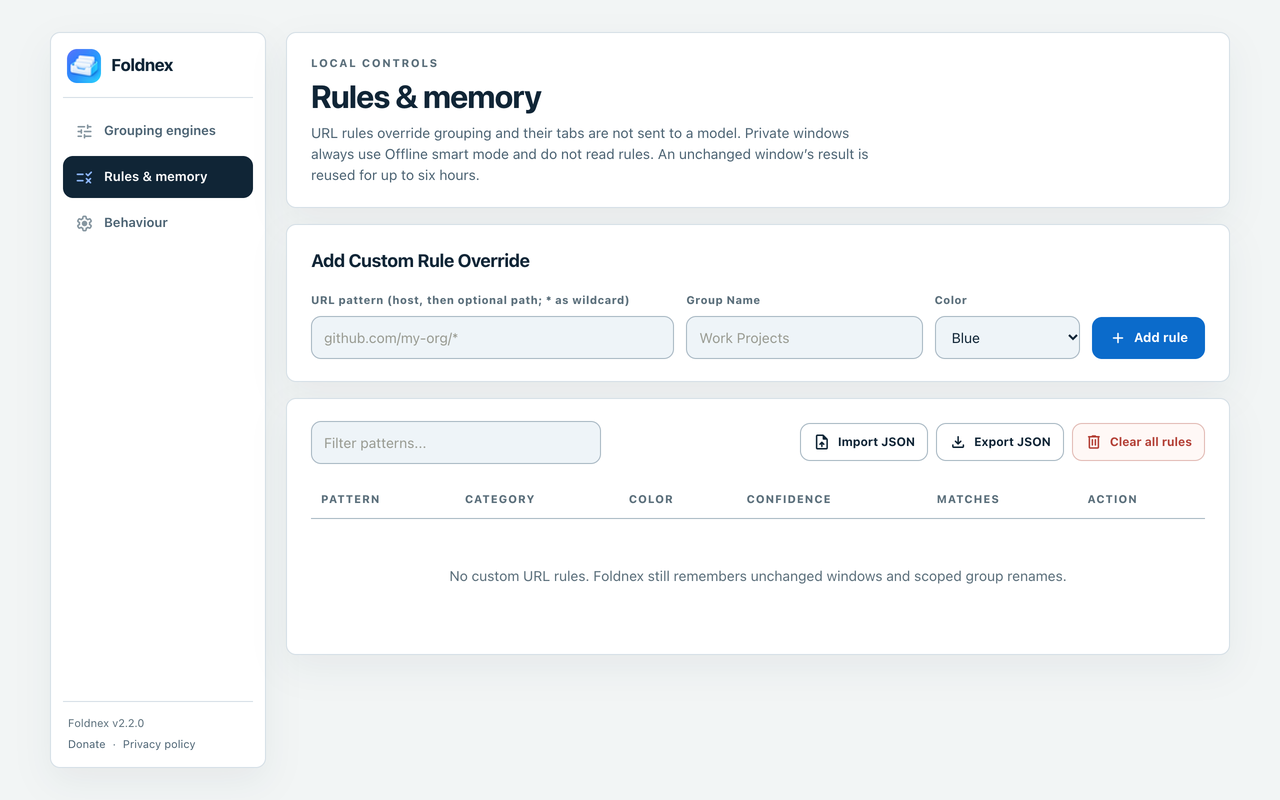
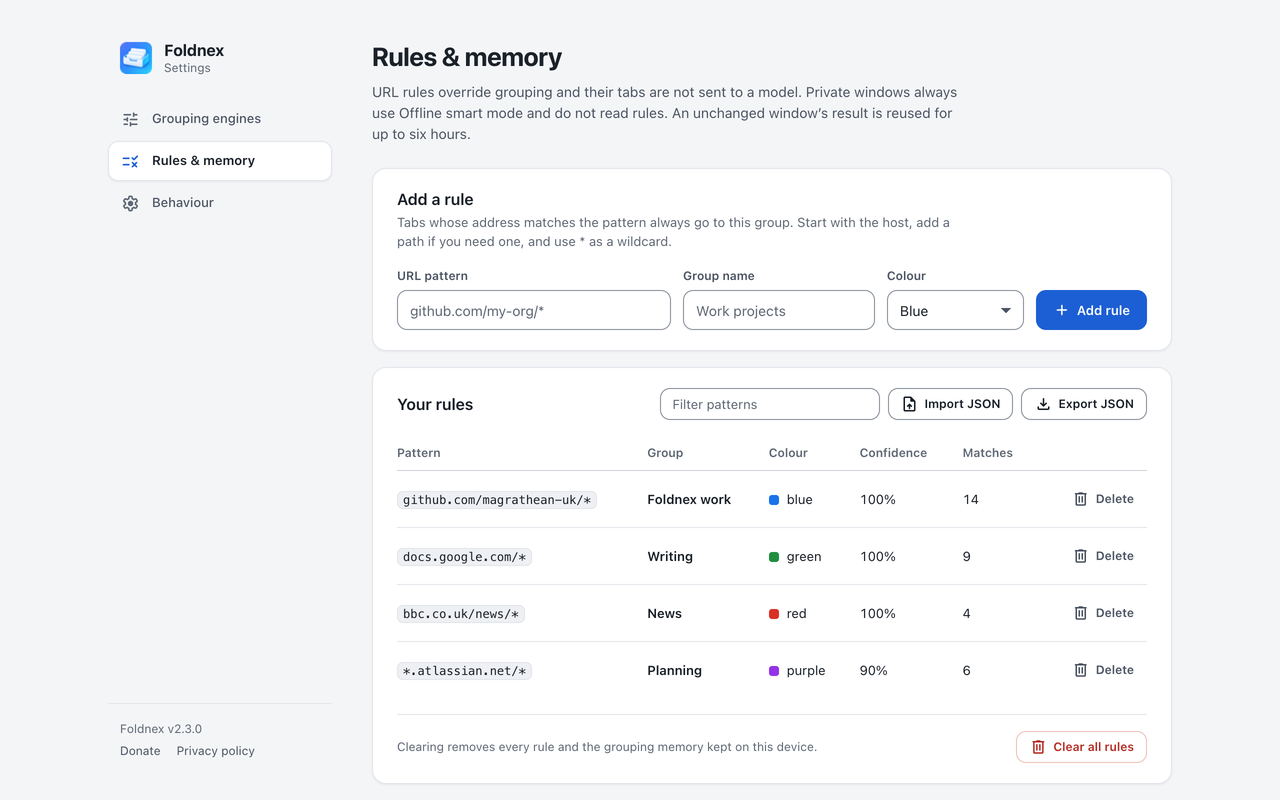
Recapture the five store screenshots from the 2.3.0 design
The set now leads with the popup (two real captures, ready and after a
cleanup, placed side by side by scripts/compose-popup-screenshot.py),
then the engine chooser, Ollama configuration, Rules & memory and
Behaviour. All are headless light-theme captures at 1280x800, device
scale 2, en-GB locale. prepare-store-screenshots.py takes the new names;
the asset manifest, store guide and user guide follow.

diff --git a/scripts/compose-popup-screenshot.py b/scripts/compose-popup-screenshot.py
@@ -1,0 +1,61 @@
+#!/usr/bin/env python3
+"""Place two popup captures side by side on a 2560x1600 store canvas.
+
+Requires Pillow in the caller's Python environment. Artwork helper only: the
+captures are pasted unscaled at their device-scale-2 size inside a plain frame,
+with no edits to their content.
+"""
+
+import argparse
+from pathlib import Path
+
+from PIL import Image, ImageDraw, ImageFilter
+
+SIZE = (2560, 1600)
+CANVAS = (230, 233, 238)
+BORDER = (207, 212, 219)
+RADIUS = 28
+GAP = 160
+
+
+def framed(image):
+    """The capture with rounded corners, a hairline border and a soft shadow, on a transparent layer."""
+    w, h = image.size
+    pad = 60
+    layer = Image.new("RGBA", (w + 2 * pad, h + 2 * pad), (0, 0, 0, 0))
+    shadow = Image.new("L", layer.size, 0)
+    ImageDraw.Draw(shadow).rounded_rectangle((pad, pad + 12, pad + w, pad + h + 12), RADIUS, fill=70)
+    layer.putalpha(shadow.filter(ImageFilter.GaussianBlur(24)))
+    layer = Image.composite(Image.new("RGBA", layer.size, (20, 24, 31, 255)), Image.new("RGBA", layer.size, (0, 0, 0, 0)), layer.getchannel("A"))
+    mask = Image.new("L", (w, h), 0)
+    ImageDraw.Draw(mask).rounded_rectangle((0, 0, w - 1, h - 1), RADIUS, fill=255)
+    layer.paste(image.convert("RGBA"), (pad, pad), mask)
+    ImageDraw.Draw(layer).rounded_rectangle((pad, pad, pad + w - 1, pad + h - 1), RADIUS, outline=BORDER, width=2)
+    return layer, pad
+
+
+def main():
+    parser = argparse.ArgumentParser(description=__doc__)
+    parser.add_argument("left", type=Path, help="popup capture shown on the left")
+    parser.add_argument("right", type=Path, help="popup capture shown on the right")
+    parser.add_argument("output", type=Path)
+    args = parser.parse_args()
+
+    canvas = Image.new("RGBA", SIZE, CANVAS + (255,))
+    shots = [Image.open(path) for path in (args.left, args.right)]
+    max_h = SIZE[1] - 160
+    shots = [shot if shot.height <= max_h else shot.crop((0, 0, shot.width, max_h)) for shot in shots]
+    total = sum(shot.width for shot in shots) + GAP
+    x = (SIZE[0] - total) // 2
+    top = (SIZE[1] - max(shot.height for shot in shots)) // 2
+    for shot in shots:
+        layer, pad = framed(shot)
+        canvas.alpha_composite(layer, (x - pad, top - pad))
+        x += shot.width + GAP
+    args.output.parent.mkdir(parents=True, exist_ok=True)
+    canvas.convert("RGB").save(args.output, optimize=True)
+    print(f"Created {args.output} ({SIZE[0]}x{SIZE[1]} RGB)")
+
+
+if __name__ == "__main__":
+    main()

diff --git a/scripts/prepare-store-screenshots.py b/scripts/prepare-store-screenshots.py
@@ -12,11 +12,11 @@ from PIL import Image, ImageOps
 
 
 NAMES = (
-    "01-grouping-engines.png",
-    "02-provider-usage.png",
-    "03-behaviour.png",
+    "01-popup.png",
+    "02-grouping-engines.png",
+    "03-provider-settings.png",
     "04-rules-and-memory.png",
-    "05-on-device-memory.png",
+    "05-behaviour.png",
 )
 SIZE = (1280, 800)
 
@@ -24,7 +24,7 @@ SIZE = (1280, 800)
 def main():
     parser = argparse.ArgumentParser(description=__doc__)
     parser.add_argument("captures", type=Path, nargs=5,
-                        help="engine chooser, usage, behaviour, rules, Nano memory")
+                        help="popup, engine chooser, provider settings, rules, behaviour")
     parser.add_argument("--output-dir", type=Path,
                         default=Path("store-assets/screenshots"))
     args = parser.parse_args()

diff --git a/docs/user-guide.md b/docs/user-guide.md
@@ -11,6 +11,8 @@ Foldnex removes conservative duplicate pages and organises the remaining tabs in
 
 A new install starts on Offline smart mode with **By task**. The setup card stays until you answer it, but never blocks a cleanup.
 
+![The popup before and after a cleanup](../store-assets/screenshots/01-popup.png)
+
 Duplicate cleanup prefers a pinned survivor, then the active tab, then the leftmost copy. It preserves query differences and routes in URL fragments, while ignoring ordinary document anchors. A small allowlist of stateless Chrome pages can also be deduplicated. Pinned and browser-internal tabs stay outside grouping.
 
 ## Gemini Nano has moved to Offline smart mode
@@ -60,7 +62,7 @@ Cleanups and tests request the lowest reasoning effort Foldnex offers for the mo
 
 API credentials are stored locally in trusted extension storage until you replace them: clear the field and save. For OpenAI clear both the API key and the bearer token. Other settings, including model IDs and an Ollama address, may sync through Chrome. Rule export does not include credentials.
 
-![Grouping engine choices](../store-assets/screenshots/01-grouping-engines.png)
+![Grouping engine choices](../store-assets/screenshots/02-grouping-engines.png)
 
 ## Ollama on this device
 
@@ -68,7 +70,7 @@ Loopback Ollama is the first hop: the request goes to the Ollama server on this 
 
 For Ollama at a local address, **Model memory → Unload the Ollama model** tells your Ollama server how long to keep its model loaded after a request: right after use, 2, 5 (default), 15 or 60 minutes, or keep loaded. Foldnex sends it with each cleanup as Ollama's `keep_alive`; whether it is honoured depends on your Ollama server.
 
-![Ollama configuration and model memory](../store-assets/screenshots/05-on-device-memory.png)
+![Ollama configuration](../store-assets/screenshots/03-provider-settings.png)
 
 ## Auto-group new tabs
 
@@ -105,11 +107,9 @@ These are suggested shortcuts and work while Chrome is focused. Check or change 
 
 **Last cleanup** reports the engine, source (for example cloud plan, plan upkeep, exact cache or offline fallback), requests, tokens, latency, quality and any fallback. **Provider request usage** counts every cleanup and test request Foldnex starts, including failed and late ones. Model lists and incognito cleanups do not count. It stores counts and reported tokens, not tab content, prompts, responses or credentials, and is not a bill.
 
-![Behaviour controls](../store-assets/screenshots/03-behaviour.png)
+![Behaviour controls](../store-assets/screenshots/05-behaviour.png)
 
-![Provider request usage example](../store-assets/screenshots/02-provider-usage.png)
-
-Screenshots 01, 02, 03 and 05 are automated captures of the 2.1.0 extension; the usage figures in 02 are seeded examples, and 05 shows a model list from a local stand-in. Screenshot 04 is a retained 2.0.0 capture of the Rules & memory controls. Provenance is recorded in [the store asset manifest](../store-assets/manifest.json).
+The screenshots are automated captures of the 2.3.0 extension in the light theme; the popup result line is a stubbed reply, the Ollama model list comes from a local stand-in and the rules are examples. Foldnex follows Chrome's light or dark appearance. Provenance is recorded in [the store asset manifest](../store-assets/manifest.json).
 
 ## Incognito
 

diff --git a/docs/development/chromewebstore.md b/docs/development/chromewebstore.md
@@ -45,20 +45,21 @@ The popup and settings page include a user-initiated Donate link to `https://mag
 
 - Store icon: `store-assets/store-icon-128.png`
 - Prepared screenshots (upload these derived images in this order):
-  1. `store-assets/screenshots/01-grouping-engines.png`: engine chooser with Anthropic · Claude listed, Offline smart mode selected
-  2. `store-assets/screenshots/02-provider-usage.png`: provider request usage (example totals)
-  3. `store-assets/screenshots/03-behaviour.png`: Behaviour settings
-  4. `store-assets/screenshots/04-rules-and-memory.png`: Rules & memory
-  5. `store-assets/screenshots/05-on-device-memory.png`: Ollama configuration and model memory
+  1. `store-assets/screenshots/01-popup.png`: the popup before and after a cleanup
+  2. `store-assets/screenshots/02-grouping-engines.png`: engine chooser, local engines and cloud providers in separate columns
+  3. `store-assets/screenshots/03-provider-settings.png`: Ollama configuration with its model list
+  4. `store-assets/screenshots/04-rules-and-memory.png`: Rules & memory with example rules
+  5. `store-assets/screenshots/05-behaviour.png`: Behaviour settings and keyboard shortcuts
 - Small promotional tile: `store-assets/small-promo-440x280.png`
 - Marquee promotional tile: `store-assets/marquee-promo-1400x560.png`
 - Asset provenance: `store-assets/manifest.json`
 
-All five screenshots are automated headless captures of the unpacked 2.2.0 extension taken on 25 November 2026, so they show the current Settings copy and 01 lists the Anthropic · Claude engine. 02 shows seeded example usage totals, not recorded traffic. 05 shows a model list answered by a loopback stand-in; no model ran. Source captures are retained in `store-assets/source-captures/`; upload the prepared `screenshots/` images (1280 × 800, RGB, full bleed, following Google's [store-image guidance](https://developer.chrome.com/docs/webstore/images)). Their presence in the repository does not establish that they have been uploaded to the dashboard.
+All five screenshots are automated headless captures of the unpacked 2.3.0 extension in the light theme, taken on 25 November 2026. 01 places two real popup captures side by side (`scripts/compose-popup-screenshot.py`); its result line comes from a stubbed reply, so no tabs moved. 03 shows a model list answered by a loopback stand-in; no model ran. 04 shows example rules. Source captures are retained in `store-assets/source-captures/`; upload the prepared `screenshots/` images (1280 × 800, RGB, full bleed, following Google's [store-image guidance](https://developer.chrome.com/docs/webstore/images)). The marquee tile still shows the 2.2 popup. Their presence in the repository does not establish that they have been uploaded to the dashboard.
 
 To regenerate the prepared images from the source captures, run the artwork helper with Pillow available:
 
 ```sh
+python3 scripts/compose-popup-screenshot.py POPUP_READY.png POPUP_RESULT.png store-assets/source-captures/01-popup.png
 python3 scripts/prepare-store-screenshots.py store-assets/source-captures/*.png
 ```
 
